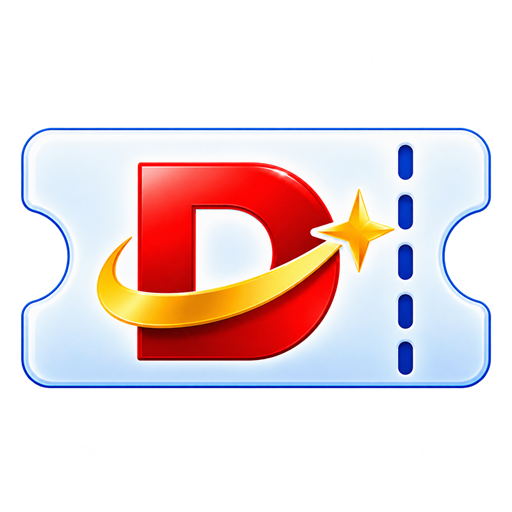
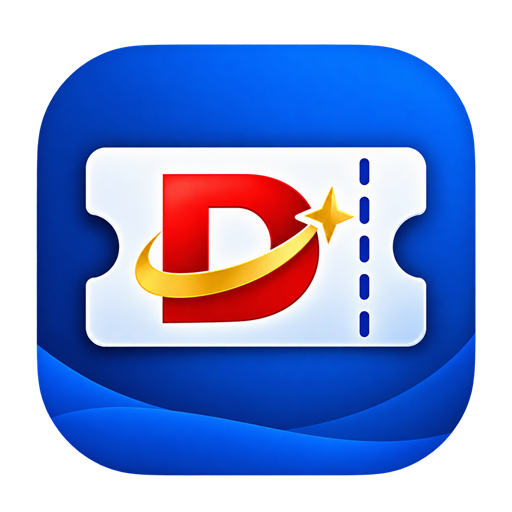
Add files via upload

diff --git a/app.js b/app.js
@@ -2394,11 +2394,11 @@ function openHouseRecordModal(title, isEdit = false, record = null) {
               </div>
             </fieldset>
 
-            <div id="h-fields-rights" style="display:grid; grid-template-columns:minmax(0, 1fr) 84px; align-items:start; gap:0.5rem; width:100%;">
-              <div style="min-width:0;">
-                <label style="font-size:0.8rem; font-weight:bold; color:#475569;">จำกัดสิทธิ์</label>
+            <div id="h-fields-rights" style="display:flex; align-items:flex-end; gap:0.45rem; width:100%;">
+              <div style="flex:1 1 auto; min-width:0;">
+                <label style="height:32px; display:flex; align-items:flex-end; font-size:0.8rem; font-weight:bold; color:#475569;">จำกัดสิทธิ์</label>
                 <div style="display:flex; align-items:stretch;">
-                  <input type="number" id="h-field-quotaPerDay" value="${isEdit ? (record?.quotaPerDay ?? '') : ''}" min="1" style="width:100%; min-width:0; padding:0.6rem; border:1px solid #cbd5e1; border-right:0; border-radius:6px 0 0 6px; box-sizing:border-box; font-size:0.95rem;" />
+                  <input type="number" id="h-field-quotaPerDay" value="${isEdit ? (record?.quotaPerDay ?? '') : ''}" min="1" style="width:82px; min-width:72px; flex:1 1 82px; padding:0.6rem; border:1px solid #cbd5e1; border-right:0; border-radius:6px 0 0 6px; box-sizing:border-box; font-size:0.95rem; appearance:textfield; -moz-appearance:textfield; -webkit-appearance:none;" />
                   <div id="h-limit-type-picker" style="position:relative; flex:0 0 auto;">
                     <input type="hidden" id="h-field-limitType" value="${Number(record?.limitType ?? 0)}" />
                     <button id="h-limit-type-toggle" type="button" aria-haspopup="listbox" aria-expanded="false" style="width:132px; height:100%; min-height:40px; display:flex; align-items:center; justify-content:space-between; gap:5px; padding:0.5rem 0.55rem; border:1px solid #cbd5e1; border-radius:0 6px 6px 0; background:#fff; color:#334155; box-sizing:border-box; font-size:0.8rem; font-weight:600; white-space:nowrap;">
@@ -2412,9 +2412,9 @@ function openHouseRecordModal(title, isEdit = false, record = null) {
                   </div>
                 </div>
               </div>
-              <div style="flex:0 0 84px; min-width:84px;">
-                <label style="font-size:0.8rem; font-weight:bold; color:#475569;">สิทธิ์ที่ใช้แล้ว</label>
-                <input type="number" id="h-field-usedCount" value="${isEdit ? (record?.usedCount ?? 0) : 0}" min="0" readonly aria-readonly="true" title="ค่านี้คำนวณจากการใช้สิทธิ์และไม่สามารถแก้ไขได้" style="width:100%; padding:0.6rem; border:1px solid #cbd5e1; border-radius:6px; box-sizing:border-box; font-size:0.95rem; background:#f1f5f9; color:#475569; cursor:not-allowed; appearance:textfield; -moz-appearance:textfield; -webkit-appearance:none;" />
+              <div style="flex:0 0 58px; min-width:58px;">
+                <label style="height:32px; display:flex; align-items:flex-end; font-size:0.67rem; font-weight:bold; color:#475569; line-height:1.05; overflow-wrap:anywhere;">สิทธิ์ที่ใช้แล้ว</label>
+                <input type="number" id="h-field-usedCount" value="${isEdit ? (record?.usedCount ?? 0) : 0}" min="0" readonly aria-readonly="true" title="ค่านี้คำนวณจากการใช้สิทธิ์และไม่สามารถแก้ไขได้" style="width:100%; padding:0.6rem 0.25rem; border:1px solid #cbd5e1; border-radius:6px; box-sizing:border-box; font-size:0.9rem; text-align:center; background:#f1f5f9; color:#475569; cursor:not-allowed; appearance:textfield; -moz-appearance:textfield; -webkit-appearance:none;" />
               </div>
             </div>
 
@@ -2949,9 +2949,9 @@ function renderMainUI() {
     <div class="shell staff-main-shell" style="max-width: 480px; margin: 0 auto; padding: 1rem; font-family: sans-serif; position: relative; min-height: 80vh;">
       <header style="text-align: center; margin-bottom: 1.5rem;">
         <img 
-          src="public/assets/image/icon-512.png?v=17" 
+          src="public/assets/image/icon-512.png?v=18" 
           alt="D House X Cafe Amazon Logo" 
-          style="width: 80px; height: 80px; object-fit: contain; margin-bottom: 0.5rem; border-radius: 12px;"
+          style="width: 100px; height: 100px; object-fit: contain; margin-bottom: 0.5rem; border-radius: 12px;"
         >
         <h1 style="color: #fff; margin: 0; font-size: 1.5rem;">D House x Café Amazon</h1>
         <p style="color: #f5eee3; margin-top: 0.25rem;">สแกน QR Code เพื่อใช้สิทธิ์และพิมพ์ใบเสร็จ</p>

diff --git a/index.html b/index.html
@@ -14,7 +14,7 @@
   <meta name="apple-mobile-web-app-capable" content="yes">
   <meta name="apple-mobile-web-app-status-bar-style" content="black-translucent">
   <meta name="apple-mobile-web-app-title" content="D House x Café Amazon">
-  <link rel="apple-touch-icon" href="public/assets/image/icon-192.png?v=17">
+  <link rel="apple-touch-icon" href="public/assets/image/icon-192.png?v=18">
 
   <link rel="stylesheet" href="styles.css?v=46">
   
@@ -57,7 +57,7 @@
   <script src="config.js?v=9"></script>
   <script src="d1-client.js?v=3"></script>
   <script src="api.js?v=44"></script>
-  <script src="app.js?v=233"></script>
+  <script src="app.js?v=237"></script>
 
   <!-- สคริปต์เปิดใช้งาน Service Worker สำหรับ Android PWA -->
   <script>

diff --git a/sw.js b/sw.js
@@ -1,5 +1,5 @@
 const CACHE_PREFIX = 'amazon-staff-';
-const CACHE_NAME = `${CACHE_PREFIX}v202`;
+const CACHE_NAME = `${CACHE_PREFIX}v206`;
 
 self.addEventListener('install', event => {
   event.waitUntil(self.skipWaiting());
